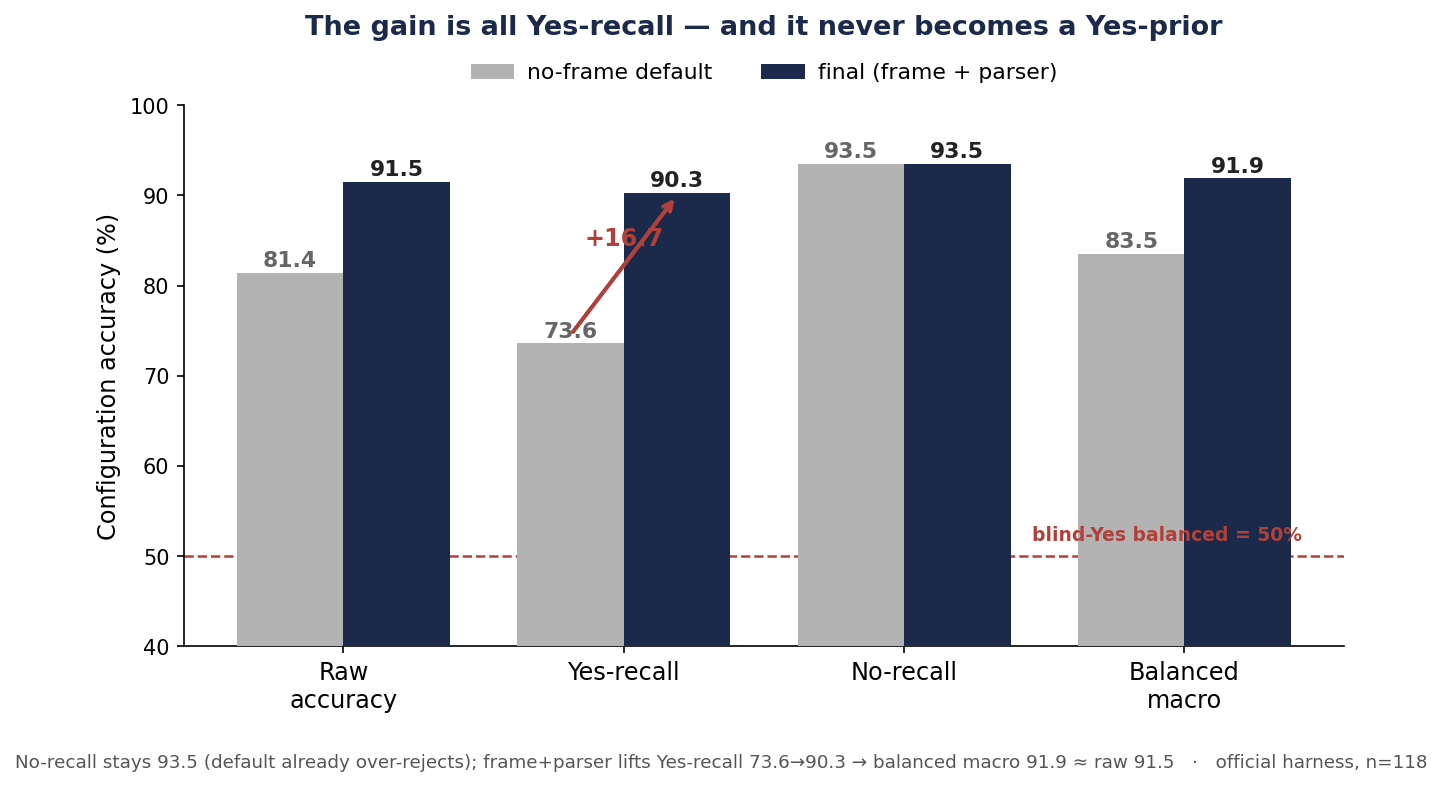
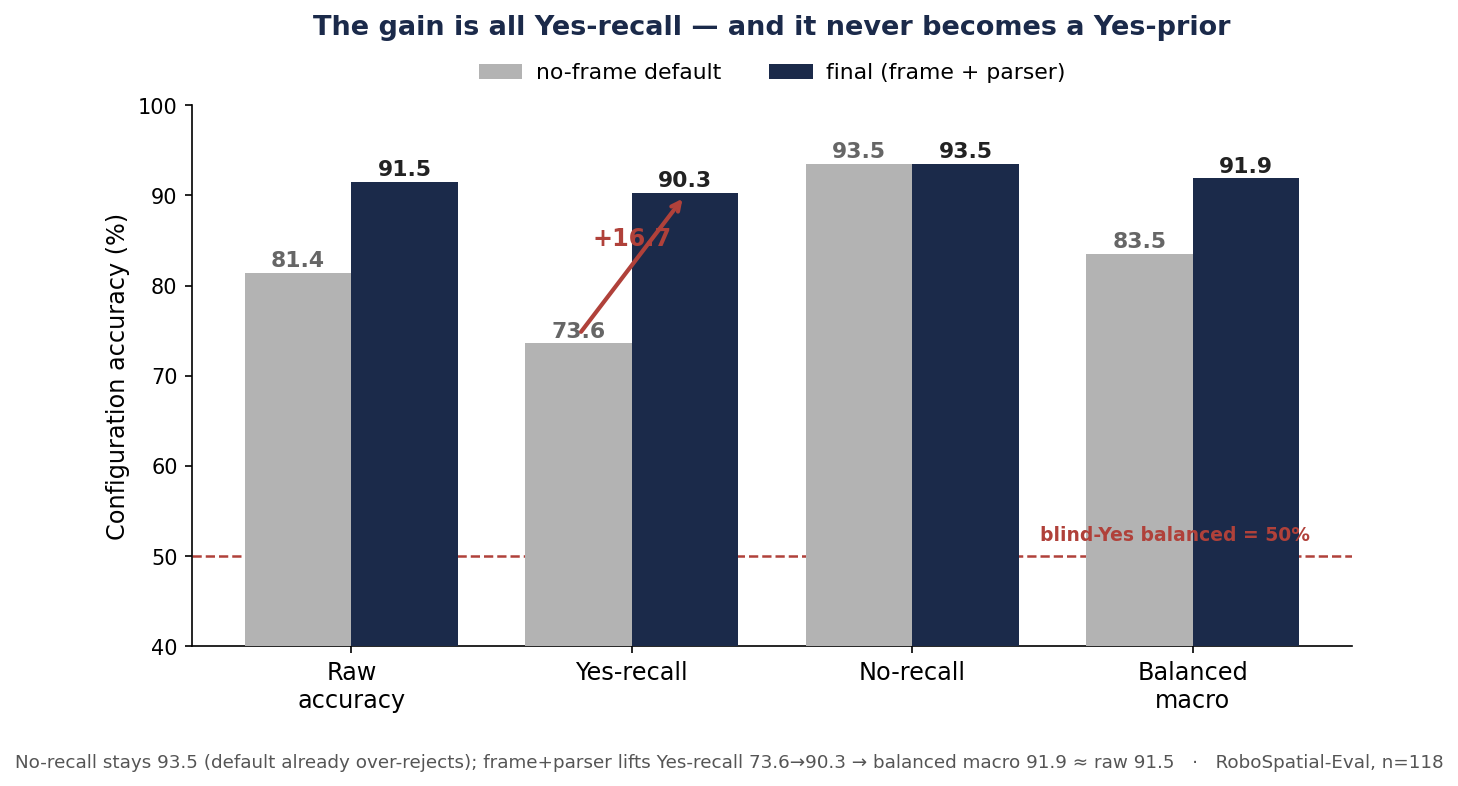
Hero title/footnote polish, references section, figure terminology
- Hero subtitle aligned with citation/deck title (eliciting, per-task)
- Metrics footnote: yes-no / point-in-mask order, drop eval mention
- References & resources: benchmark, base models, all baselines w/ links
- Regenerate config_macro + config_gain_waterfall (RoboSpatial-Eval labels)
- Unify RoboBrain2.5-8B-MT naming

Claude-Session: https://claude.ai/code/session_016Ym2F9ENkQBJ4TE4VoD2K2

diff --git a/index.html b/index.html
@@ -180,7 +180,7 @@
       <a href="https://www.instagram.com/anonymous_ikm/" target="_blank" rel="noopener" class="anon-link"><img src="figs/anon.png" alt="Anonymous" style="height:1.5em;width:auto;vertical-align:middle;cursor:pointer;"><span class="tip">This is my favorite character called <b>ikmyung</b> — it means <i>anonymous</i>. @anonymous_ikm</span></a>
       Team — Anonymous
     </h1>
-    <p class="subtitle is-4">A zero-shot, open-weight recipe for spatial reasoning on RoboSpatial-Home</p>
+    <p class="subtitle is-4">Eliciting spatial skills from open-weight VLMs — a zero-shot, per-task recipe for RoboSpatial-Home</p>
     <p class="is-size-6" style="color:#555;"><a href="https://edw2n.github.io" target="_blank" rel="noopener" style="color:inherit;text-decoration:none;">Eunsu Baek</a>, Seoul National University</p>
     <div class="buttons is-centered" style="margin-top:1.2rem;">
       <a class="button is-light" href="[VIDEO_URL]">🎥 Video</a>
@@ -194,7 +194,7 @@
       <div class="column metric has-text-centered"><div class="n">78.7</div><div class="l">Context</div></div>
       <div class="column metric has-text-centered"><div class="n">2<sup>nd</sup></div><div class="l">Leaderboard</div></div>
     </div>
-    <p class="is-size-7" style="color:#888;margin-top:.3rem;">public point-in-mask / yes-no accuracy · zero-shot, no training</p>
+    <p class="is-size-7" style="color:#888;margin-top:.3rem;">yes-no / point-in-mask accuracy · zero-shot, no training</p>
   </div></div>
 </header>
 
@@ -256,7 +256,7 @@
     </p>
     <div class="columns is-multiline">
       <div class="column is-4"><div class="block-card"><p class="title is-6" style="margin-bottom:.4rem;">① Model <span class="cap">· which base model</span></p>
-        <p>Depending on their <b>training data</b>, models specialize in <b>different spatial tasks</b>. We pair a <b>spatial reasoner</b> (Qwen3-VL-Thinking) with a <b>pointing specialist</b> (RoboBrain-2.5).</p></div></div>
+        <p>Depending on their <b>training data</b>, models specialize in <b>different spatial tasks</b>. We pair a <b>spatial reasoner</b> (Qwen3-VL-Thinking) with a <b>pointing specialist</b> (RoboBrain2.5-8B-MT).</p></div></div>
       <div class="column is-4"><div class="block-card"><p class="title is-6" style="margin-bottom:.4rem;">② Reasoning <span class="cap">· Thinking vs Instruct checkpoint</span></p>
         <p>Qwen3-VL ships as <b>two separate checkpoints</b> — <b>Thinking</b> emits <code>&lt;think&gt;</code> traces and avoids defaulting to a <b>prior</b>. Reasoning is <b>asymmetric</b>: it helps the reasoner (Qwen keeps it even for pointing) but <b>derails RoboBrain’s pointing</b>.</p></div></div>
       <div class="column is-4"><div class="block-card"><p class="title is-6" style="margin-bottom:.4rem;">③ Decoding <span class="cap">· greedy vs sampling</span></p>
@@ -530,7 +530,7 @@ else:
     <div style="margin-top:2.2rem;padding-top:1.5rem;border-top:1px solid #e7e7e7;">
       <p class="opt-label has-text-centered" style="margin-bottom:.9rem;">Final result — the two fixes stack to 91.5%</p>
       <div class="columns is-vcentered">
-        <div class="column is-7"><figure><img src="figs/config/config_gain_waterfall.png" style="max-height:440px;width:auto;margin:0 auto;display:block;"></figure></div>
+        <div class="column is-7"><figure><img src="figs/config/config_gain_waterfall.png?v=2" style="max-height:440px;width:auto;margin:0 auto;display:block;"></figure></div>
         <div class="column is-5">
           <p style="margin-bottom:.5rem;"><b>81.4%</b> default → <span class="g">+6.8</span> object frame → <span class="g">+3.4</span> parser → <b>91.5%</b>.</p>
           <p style="margin-bottom:.5rem;"><b>+10.2 pt total</b> (81.4 → 91.5).</p>
@@ -544,7 +544,7 @@ else:
           <p style="margin-bottom:.5rem;">The whole gain is <b>Yes-recall</b> (<span class="g">73.6 → 90.3</span>); No-recall never moves off 93.5. The frame fixes <b>over-rejection</b> — the opposite of a Yes-prior.</p>
           <p class="cap">A blind-“Yes” baseline gets 61% raw but only <b>50% balanced</b>. That gap is the real spatial skill.</p>
         </div>
-        <div class="column is-7"><figure><img src="figs/config/config_macro.png" style="max-height:380px;width:auto;margin:0 auto;display:block;"></figure></div>
+        <div class="column is-7"><figure><img src="figs/config/config_macro.png?v=2" style="max-height:380px;width:auto;margin:0 auto;display:block;"></figure></div>
       </div>
     </div>
   </div>
@@ -989,6 +989,23 @@ else:
   year   = {2026},
   note   = {2nd place, RoboSpatial-Home Challenge · ERA Workshop @ CVPR 2026}
 }</pre>
+    <div style="margin-top:2rem;">
+      <p class="kicker has-text-centered" style="margin-bottom:.6rem;">References &amp; resources</p>
+      <div class="content" style="font-size:.92rem;color:#555;max-width:760px;margin:0 auto;">
+        <ul style="margin-left:1.2rem;">
+          <li><b>RoboSpatial / RoboSpatial-Home</b> — benchmark &amp; official evaluation (<a href="https://github.com/chanhee-luke/RoboSpatial-Eval" target="_blank" rel="noopener">RoboSpatial-Eval</a>); Song et&nbsp;al., <i>RoboSpatial: Teaching Spatial Understanding to 2D and 3D Vision-Language Models for Robotics</i>, CVPR 2025.</li>
+          <li><b>Qwen3-VL-32B</b> (Thinking / Instruct checkpoints) — Qwen team, Alibaba (<a href="https://huggingface.co/Qwen/Qwen3-VL-32B-Thinking" target="_blank" rel="noopener">Hugging&nbsp;Face</a>).</li>
+          <li><b>RoboBrain2.5-8B-MT</b> — BAAI (<a href="https://huggingface.co/BAAI" target="_blank" rel="noopener">Hugging&nbsp;Face</a>).</li>
+          <li><b>RoboPoint</b> — Yuan et&nbsp;al., <i>RoboPoint: A Vision-Language Model for Spatial Affordance Prediction for Robotics</i>, CoRL 2024 (<a href="https://github.com/wentaoyuan/RoboPoint" target="_blank" rel="noopener">GitHub</a>).</li>
+          <li><b>RoboRefer</b> — Zhou et&nbsp;al., <i>RoboRefer: Towards Spatial Referring with Reasoning in Vision-Language Models for Robotics</i>, 2025 (<a href="https://arxiv.org/abs/2506.04308" target="_blank" rel="noopener">arXiv:2506.04308</a>).</li>
+          <li><b>SpatialVLM</b> — Chen et&nbsp;al., <i>SpatialVLM: Endowing Vision-Language Models with Spatial Reasoning Capabilities</i>, CVPR 2024.</li>
+          <li><b>Molmo</b> — Deitke et&nbsp;al., <i>Molmo and PixMo: Open Weights and Open Data for State-of-the-Art Multimodal Models</i>, 2024 (<a href="https://arxiv.org/abs/2409.17146" target="_blank" rel="noopener">arXiv:2409.17146</a>).</li>
+          <li><b>LLaVA-NeXT</b> — Liu et&nbsp;al., <i>LLaVA-NeXT: Improved Reasoning, OCR, and World Knowledge</i>, 2024 (<a href="https://llava-vl.github.io/blog/2024-01-30-llava-next/" target="_blank" rel="noopener">project</a>).</li>
+          <li><b>Qwen2-VL</b> — Wang et&nbsp;al., <i>Qwen2-VL: Enhancing Vision-Language Model’s Perception of the World at Any Resolution</i>, 2024 (<a href="https://arxiv.org/abs/2409.12191" target="_blank" rel="noopener">arXiv:2409.12191</a>).</li>
+          <li class="cap" style="list-style:none;margin-left:-1.2rem;margin-top:.4rem;">All baseline numbers on the leaderboard are our own runs through RoboSpatial-Eval.</li>
+        </ul>
+      </div>
+    </div>
   </div>
 </section>
 